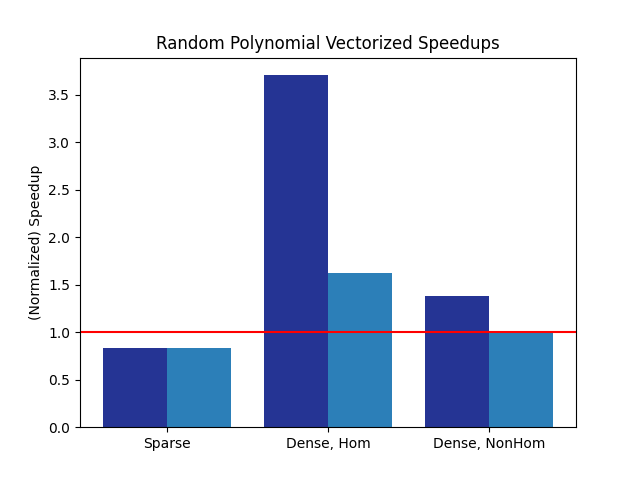
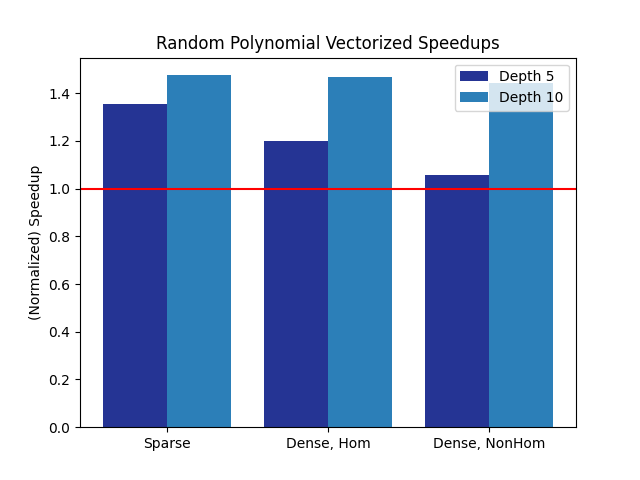
updated tree data

diff --git a/figures.py b/figures.py
@@ -77,16 +77,19 @@ for disc in os.listdir('csvs/tree/'):
     labels.append(discs[disc])
     value = []
     for size in os.listdir(f'csvs/tree/{disc}'):
+        if size not in ['5', '10']:
+            continue
         speedups = np.array([1 / csv_speedup(f'csvs/tree/{disc}/{size}/{tree}') for tree in os.listdir(f'csvs/tree/{disc}/{size}')])
         print(f'{disc}.{size}:{speedups.mean()}')
         value.append(speedups.mean())
 
     values.append(tuple(value))
 
-s3, s6 = zip(*values)
+s10, s5 = zip(*values)
 x = np.arange(len(labels))
-plt.bar(x - width, s3, width=2 * width, color='#253494')
-plt.bar(x + width, s6, width=2 * width, color='#2c7fb8')
+plt.bar(x - width, s5, width=2 * width, color='#253494')
+plt.bar(x + width, s10, width=2 * width, color='#2c7fb8')
+plt.legend(['Depth 5', 'Depth 10'])
 plt.xticks(x, labels)
 plt.title('Random Polynomial Vectorized Speedups')
 plt.axhline(1, color='red')
